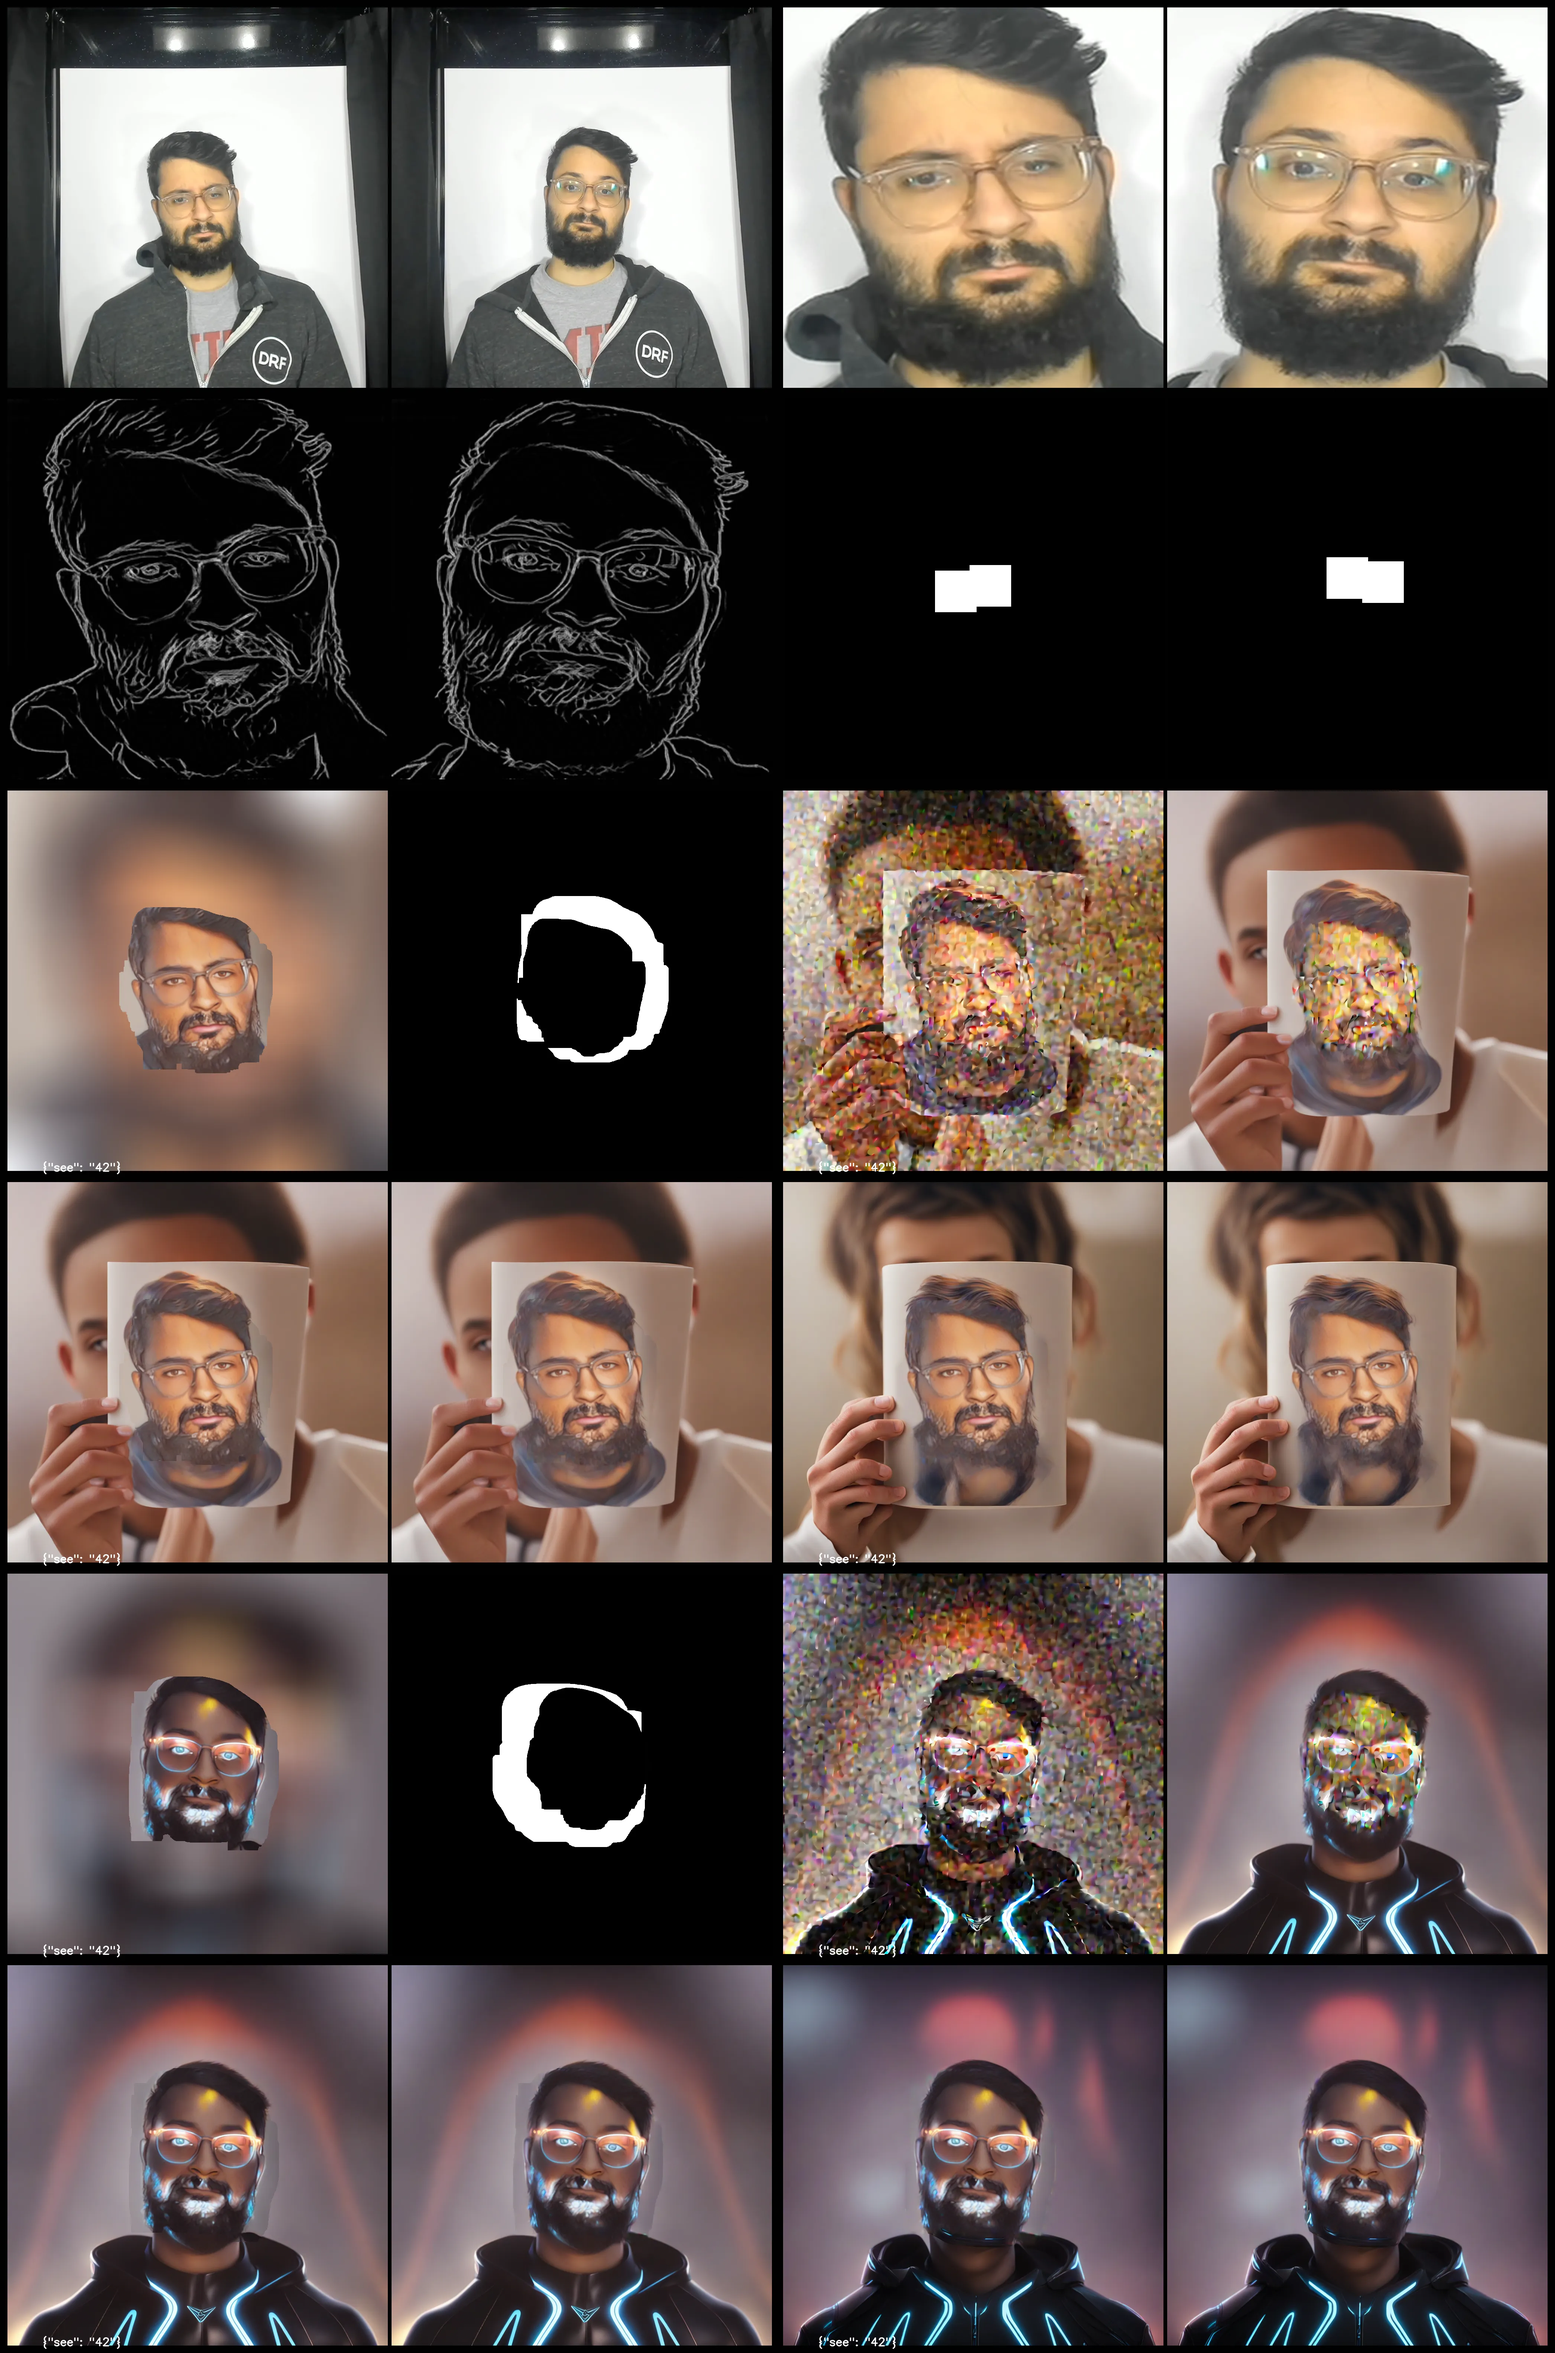
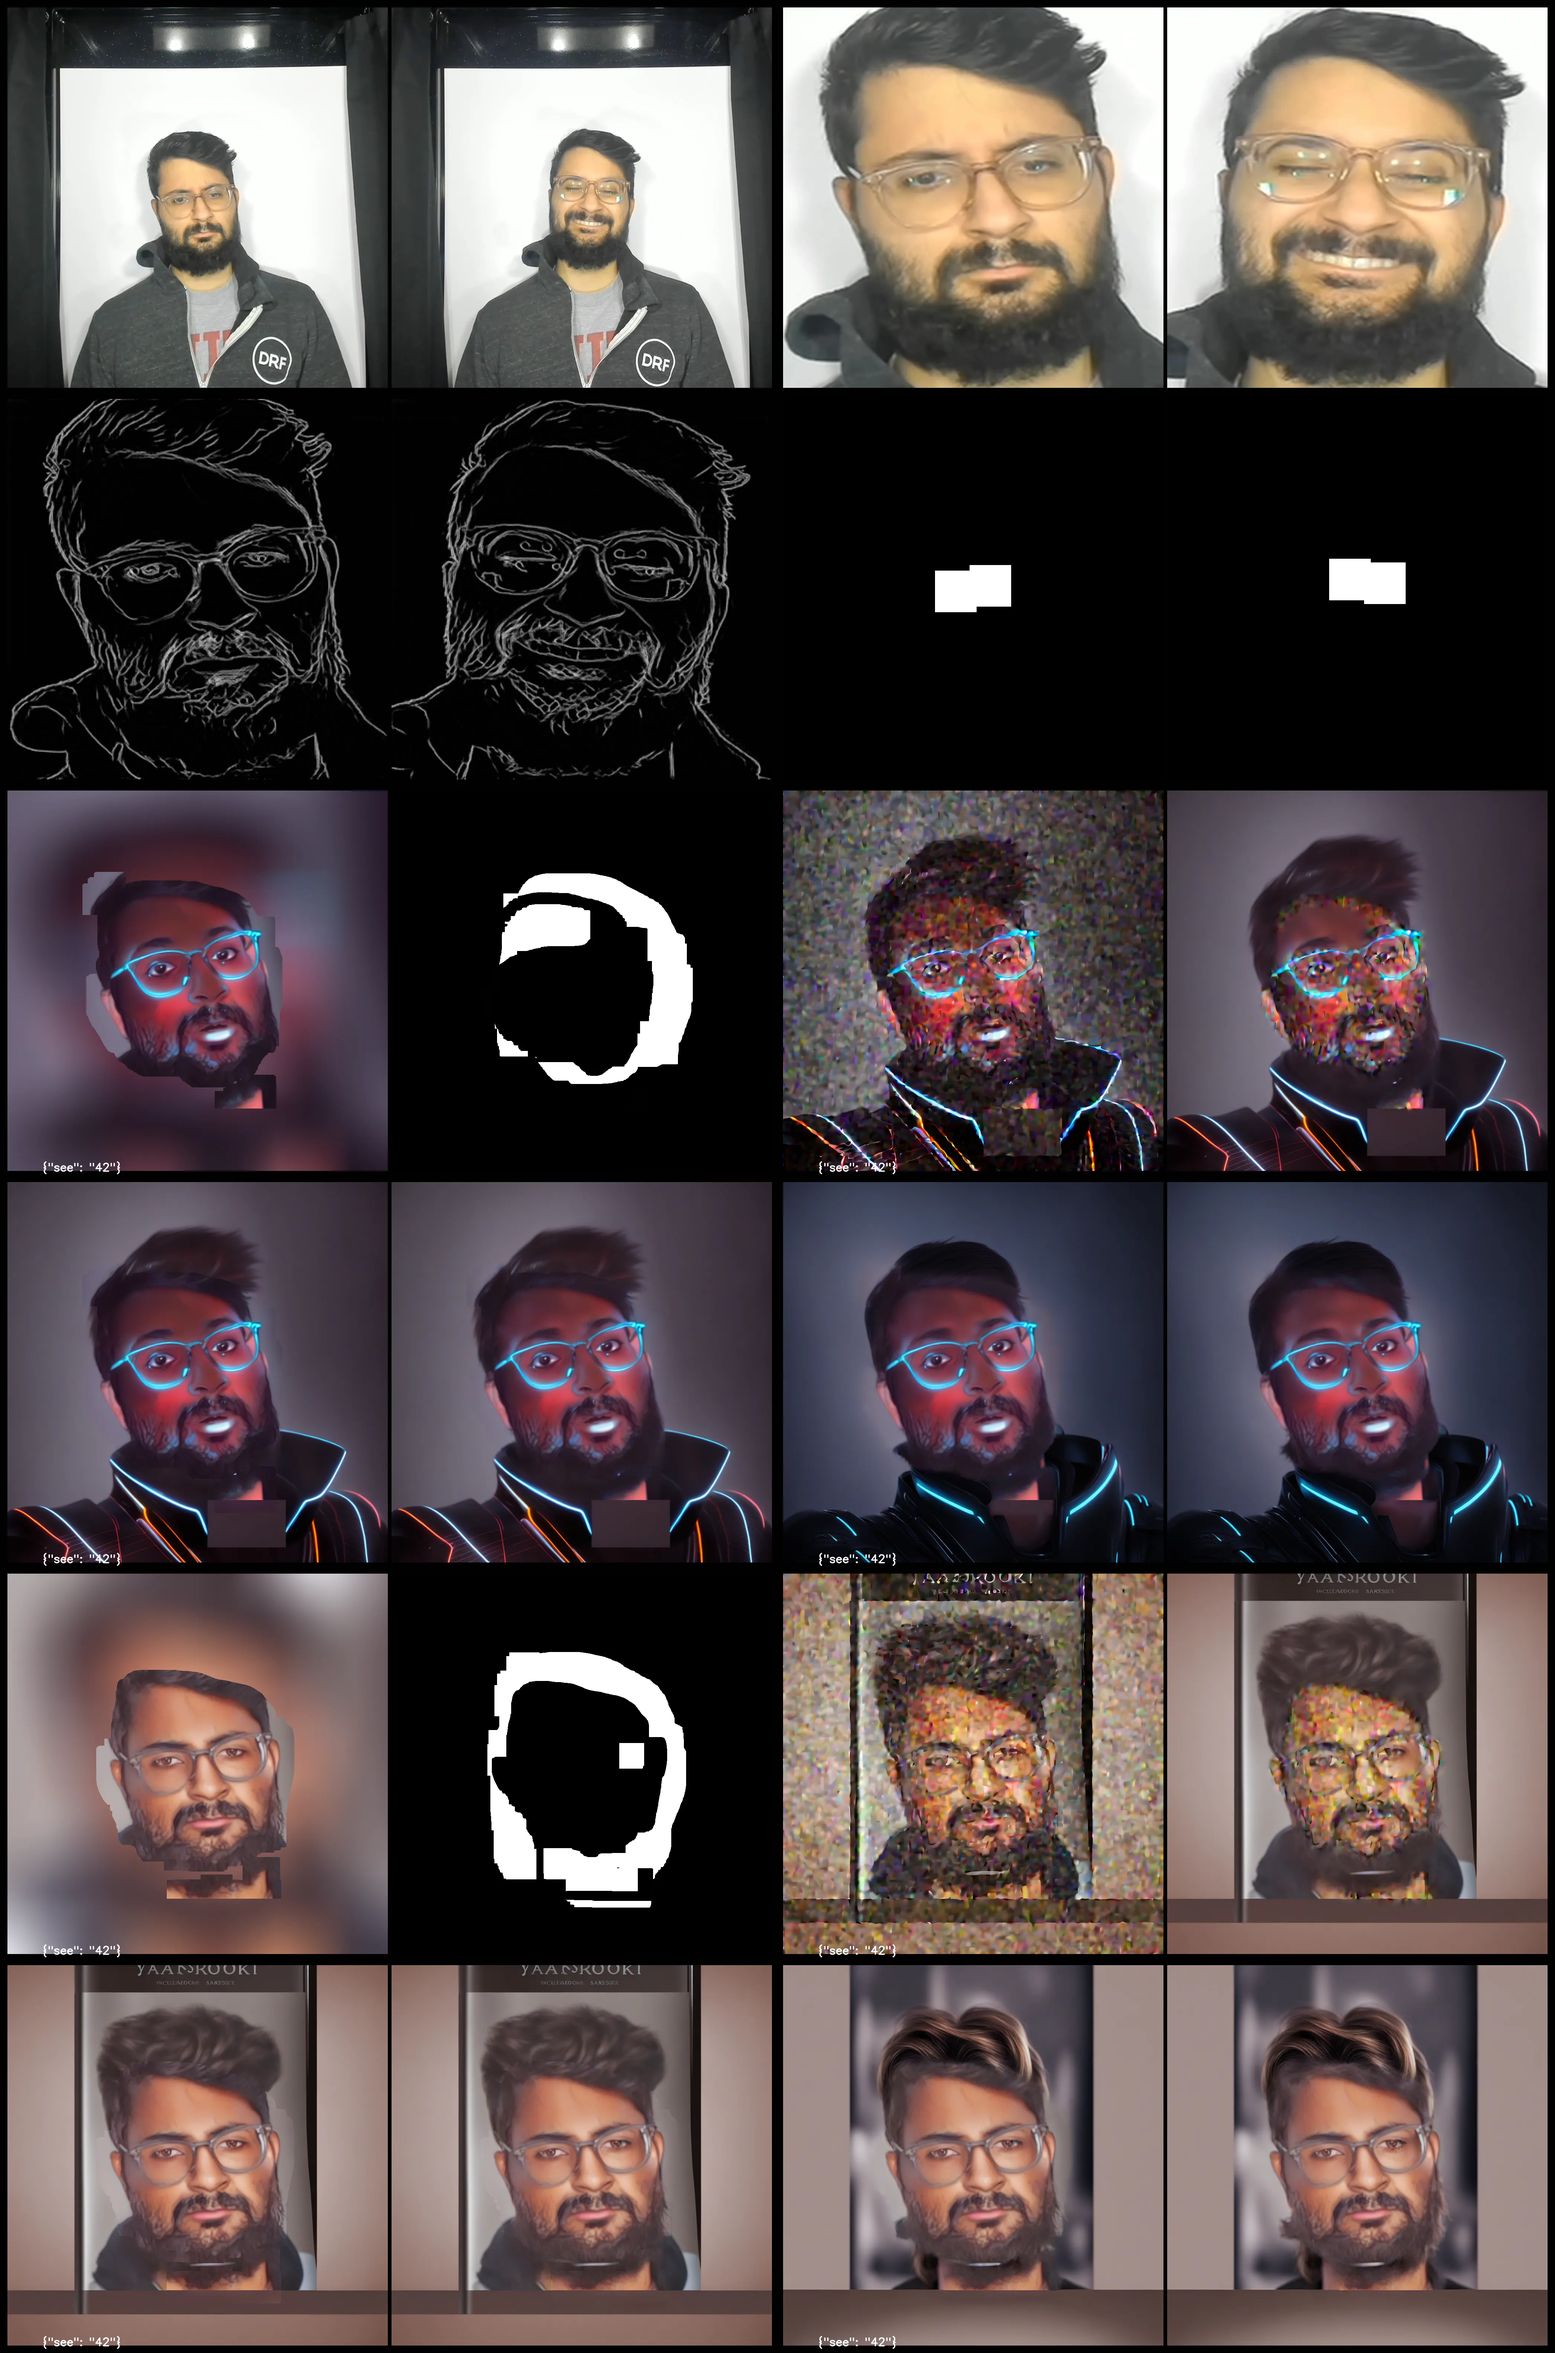
Automatically resize.

diff --git a/one_shot/params.py b/one_shot/params.py
@@ -62,9 +62,9 @@ class Params(BaseModel):
     model: Model = Model()
     batch_size: int = 4
 
-    negative_prompt = "box+, (picture frame)++, boxy, rectangle+, (extra fingers)++, ugly+, blurry+, fuzzy+, monotone, dreary, extra digit, fewer digits, eyes closed, extra eyes, bad smile, cropped, worst quality, low quality, glitch, deformed, mutated, disfigured, text"
-    refine_negative_prompt = "face+++, eyes+++, brow, (double face), (extra eyes), (multiple faces)+, (extra digits)+, extra limbs, deformed"
-    prompt_template = "HD, realistic, cinematic effect, hyperrealistic+, sharp, (highly detailed)+, (white teeth)++, nice smile, (airbrushed)0.2, (beautiful)0.2"
+    negative_prompt = "box+, (picture frame)++, boxy, rectangle+, (extra fingers)++, ugly+, blurry+, fuzzy+, monotone, dreary, extra digit, text, eyes closed, extra eyes, bad smile, cropped, worst quality, low quality, glitch, deformed, mutated, disfigured, yellow teeth"
+    refine_negative_prompt = "face+++, eyes+++, brow, (double face), (extra eyes), (multiple faces)+, (extra digits)+, extra limbs, deformed, bad arm, weird arm"
+    prompt_template = "4k, realistic, cinematic effect, hyperrealistic+, sharp, (highly detailed)+, white teeth, nice smile, (airbrushed)0.2, (beautiful)0.2"
     prompt_prefix = "{prompt}, {ethnicity} {gender}"
     refine_prompt_prefix = "{prompt}"
     inpaint_prompt_template = "{color} eyes, perfecteyes++, (detailed pupils)+, subtle eyes, natural eyes, realistic eyes, ({ethnicity} {gender})0.1, ({prompt})0.8"
@@ -78,12 +78,12 @@ class Params(BaseModel):
         # "Marvel superhero, sky in the background, comic book style",
         # "a monarch wearing a crown, game of thrones, on the iron throne, magestic, regal, powerful, bold",
         "character from tron, neon, techno, futuristic, dark background, black clothing, high contrast",
-        "yearbook style, high school, teenage angst, creative",
+        "sassy yearbook photo, high school, teenage angst, creative",
     ] * 2
 
     seed: Optional[int] = None
-    steps: int = 15
-    inpainting_steps = 10
+    steps: int = 20
+    inpainting_steps = 12
     images: int = 2
 
     detect_resolution: int = 384

diff --git a/one_shot/dreambooth/model.py b/one_shot/dreambooth/model.py
@@ -229,9 +229,24 @@ class Model:
         frames: list[Image.Image] = []
         dims = (self.params.model.resolution, self.params.model.resolution)
         for idx, face in enumerate(request.generation.faces):
-            padding = self.params.mask_padding * random.triangular(2.2, 2.3)
-
             bounds = Bounds.from_face(dims, face)
+            target_percent = random.triangular(0.53, 0.57)
+
+            curr_width, curr_height = bounds.size()
+            target_width, target_height = [int(x * target_percent) for x in dims]
+            d_w, d_h = target_width - curr_width, target_height - curr_height
+            delta = max(d_w, d_h)
+            padding = (delta / max(dims)) / 2.0
+
+            self.logger.warning(
+                "PADDING: {}, {}, {}, {}, {}",
+                (curr_width, curr_height),
+                (target_width, target_height),
+                (d_w, d_h),
+                delta,
+                padding,
+            )
+
             slice = bounds.slice(padding)
             embed = np.asarray(faces[idx].resize(bounds.size(padding)))
 
@@ -437,7 +452,7 @@ class Model:
                     (~np.asarray(masks[idx]) - ~np.asarray(og_masks[idx]))
                 ),
                 generator=generator,
-                strength=0.24,
+                strength=0.23,
                 guidance_scale=self.params.guidance_scale,
                 num_inference_steps=self.params.inpainting_steps,
                 **prompts.kwargs_for_refiner(idx),
